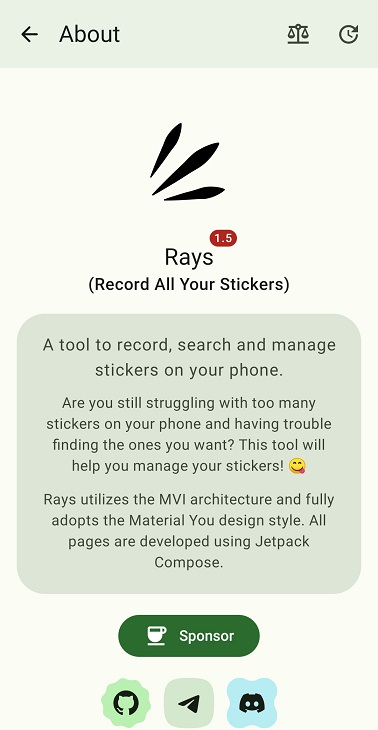
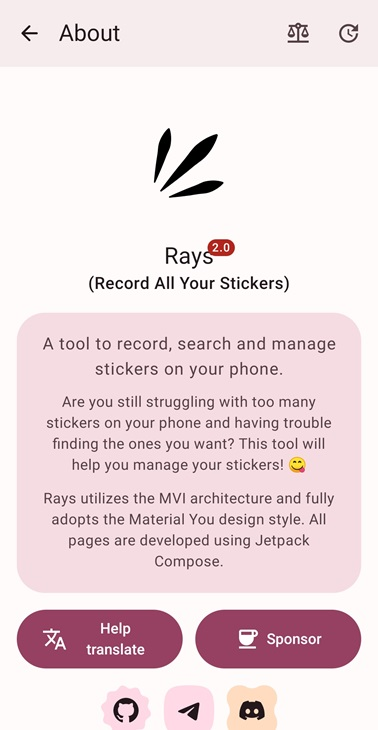
[optimize|doc] Support per-app language; update README

diff --git a/app/src/main/java/com/skyd/rays/ui/activity/MainActivity.kt b/app/src/main/java/com/skyd/rays/ui/activity/MainActivity.kt
@@ -300,7 +300,13 @@ class MainActivity : AppCompatActivity() {
         }
     }
 
-    private fun initIntent() {
+    override fun onNewIntent(intent: Intent?) {
+        super.onNewIntent(intent)
+
+        initIntent(intent)
+    }
+
+    private fun initIntent(intent: Intent? = getIntent()) {
         val stickers: MutableList<UriWithStickerUuidBean> = when (intent?.action) {
             Intent.ACTION_SEND -> {
                 val data = mutableListOf<UriWithStickerUuidBean>()

diff --git a/doc/README/README-zh-rCN.md b/doc/README/README-zh-rCN.md
@@ -57,7 +57,7 @@
 ## 🤩应用截图
 
 ![ic_home_screen](../../image/zh-rCN/ic_home_screen.jpg) ![ic_home_screen_search](../../image/zh-rCN/ic_home_screen_search.jpg)
-![ic_add_screen_edit](../../image/zh-rCN/ic_add_screen_edit.jpg) ![ic_home_screen_share](../../image/zh-rCN/ic_home_screen_share.jpg)
+![ic_add_screen_add](../../image/zh-rCN/ic_add_screen_add.jpg) ![ic_share](../../image/zh-rCN/ic_share.jpg)
 ![ic_appearance_screen](../../image/zh-rCN/ic_appearance_screen.jpg) ![ic_import_export_screen](../../image/zh-rCN/ic_import_export_screen.jpg)
 ![ic_mini_tool_screen](../../image/zh-rCN/ic_mini_tool_screen.jpg) ![ic_style_transfer_screen](../../image/zh-rCN/ic_style_transfer_screen.jpg)
 ![ic_search_config_screen](../../image/zh-rCN/ic_search_config_screen.jpg) ![ic_more_screen](../../image/zh-rCN/ic_more_screen.jpg)

diff --git a/README.md b/README.md
@@ -59,7 +59,7 @@
 ## 🤩 Screenshots
 
 ![ic_home_screen](image/en/ic_home_screen.jpg) ![ic_home_screen_search](image/en/ic_home_screen_search.jpg)
-![ic_add_screen_edit](image/en/ic_add_screen_edit.jpg) ![ic_home_screen_share](image/en/ic_home_screen_share.jpg)
+![ic_add_screen_add](image/en/ic_add_screen_add.jpg) ![ic_share](image/en/ic_share.jpg)
 ![ic_appearance_screen](image/en/ic_appearance_screen.jpg) ![ic_import_export_screen](image/en/ic_import_export_screen.jpg)
 ![ic_mini_tool_screen](image/en/ic_mini_tool_screen.jpg) ![ic_style_transfer_screen](image/en/ic_style_transfer_screen.jpg)
 ![ic_search_config_screen](image/en/ic_search_config_screen.jpg) ![ic_more_screen](image/en/ic_more_screen.jpg)
